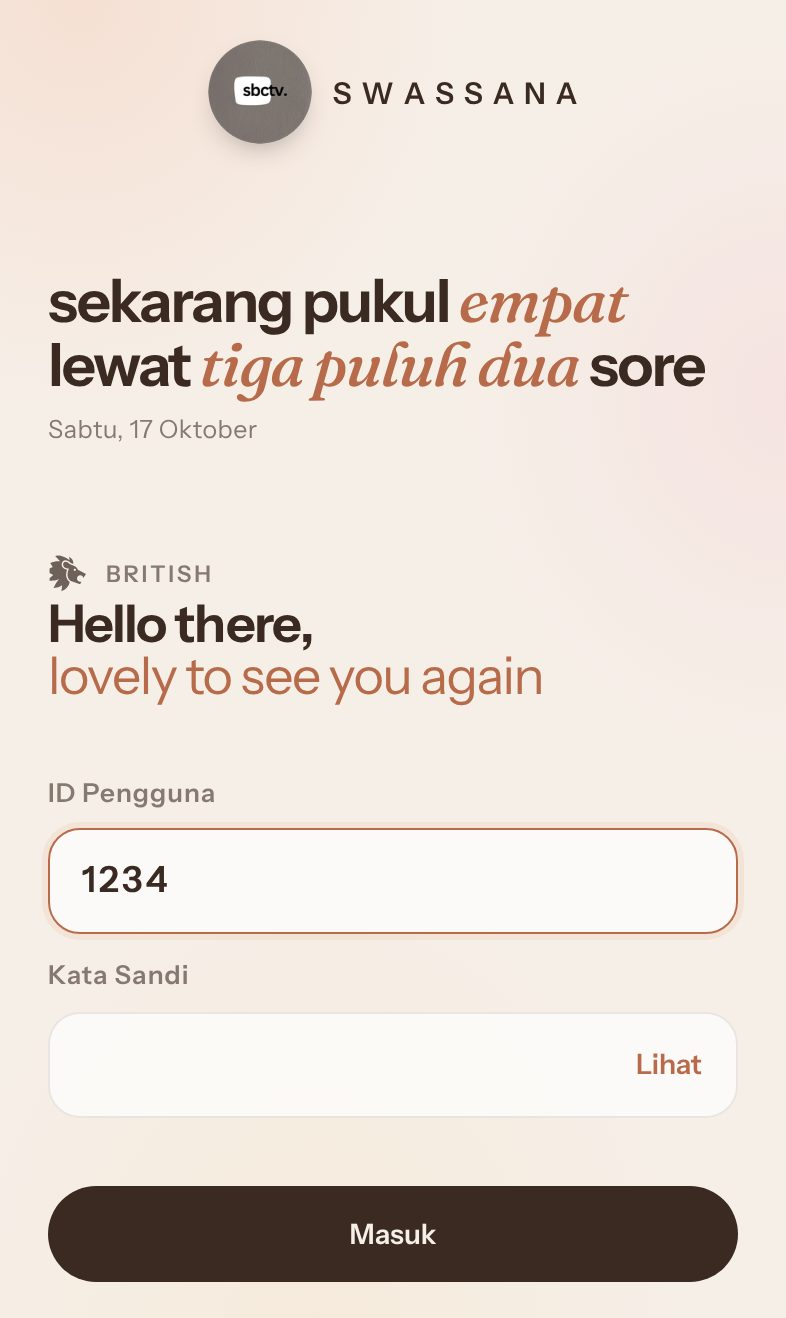
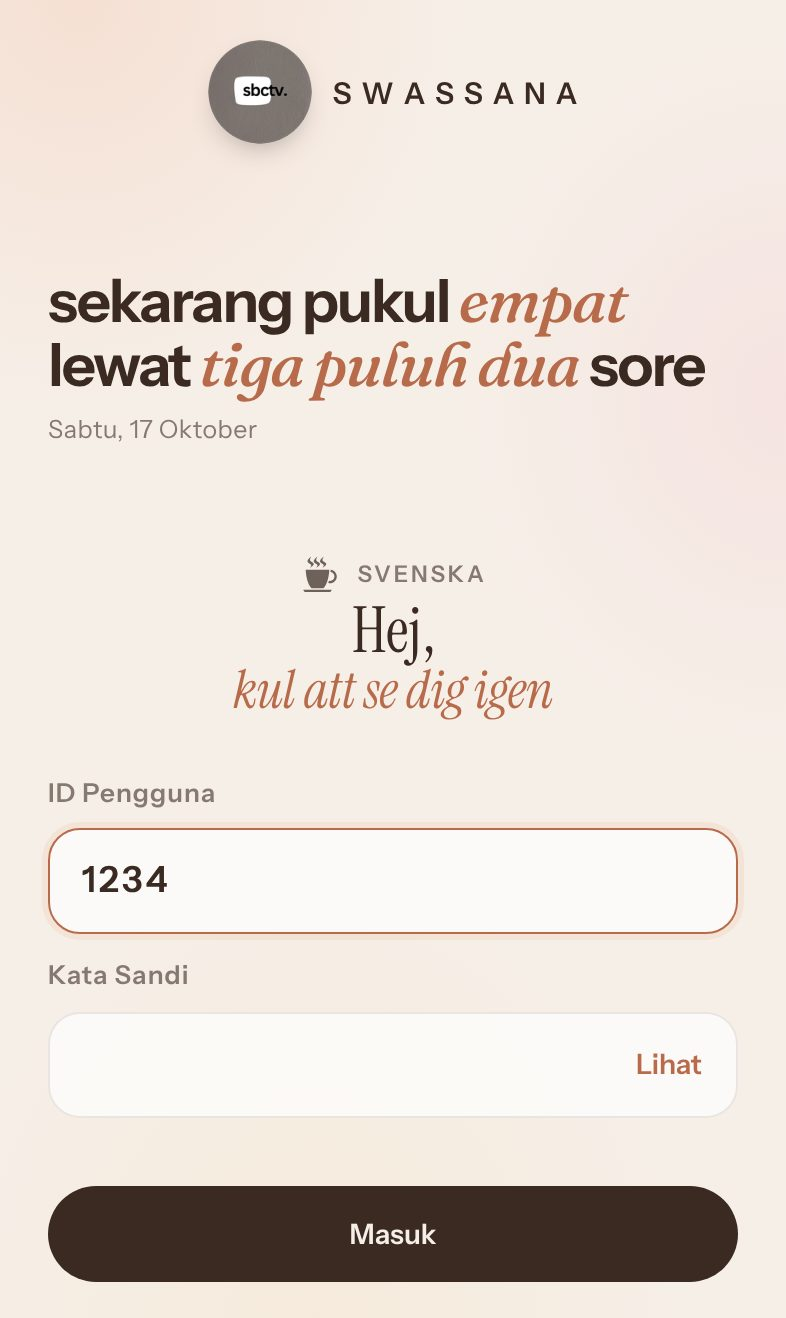
Login greeting in Instrument Serif; showcase login screenshot refreshed
Claude-Session: https://claude.ai/code/session_01NtCyvoDvjHFmUSFRxXKysP

Changed region(s): [[0.0611, 0.4044, 0.7023, 0.5599], [0.3969, 0.4044, 0.4275, 0.4666], [0.4885, 0.4044, 0.5191, 0.4355]]

diff --git a/style.css b/style.css
@@ -1055,3 +1055,15 @@ html.intro-bye body > *:not(.intro) { animation: intro-bye .75s cubic-bezier(.7,
 /* Login greeting ("quotes") centred */
 .gate .hello-tag { justify-content: center; }
 .gate h1.hello { text-align: center; }
+
+/* Login greeting in its own face: Instrument Serif (upright greeting, italic second line) */
+.gate h1.hello { font-family: "Instrument Serif", var(--display); font-weight: 400; letter-spacing: -.01em; line-height: 1.05; }
+.gate h1.hello .h1l { font-size: 1.22em; }
+.gate h1.hello .h2l { font-style: italic; font-weight: 400; font-size: 1.02em; }
+.gate h1.hello.dict .h1l { font-family: "Instrument Serif", var(--display); font-style: italic; font-weight: 400; font-size: 1.3em; letter-spacing: -.01em; }
+.gate h1.hello.dict .h2l { font-family: var(--sans); font-style: normal; font-size: .5em; }
+.gate h1.hello:lang(ja) { font-family: "Hiragino Mincho ProN", "Yu Mincho", "Noto Serif JP", serif; }
+.gate h1.hello:lang(ja) .h1l { font-size: 1em; }
+.gate h1.hello:lang(ja) .h2l { font-size: .78em; }
+.gate h1.hello.dict:lang(ja) .h1l { font-size: 1.1em; }
+.gate h1.hello.dict:lang(ja) .h2l { font-family: var(--sans); font-size: .5em; }

diff --git a/index.html b/index.html
@@ -19,7 +19,7 @@
   <meta name="apple-mobile-web-app-status-bar-style" content="default">
   <link rel="preconnect" href="https://fonts.googleapis.com">
   <link rel="preconnect" href="https://fonts.gstatic.com" crossorigin>
-  <link href="https://fonts.googleapis.com/css2?family=Fraunces:ital,opsz,wght@0,9..144,300..700;1,9..144,300..700&family=Instrument+Sans:wght@400..700&display=swap" rel="stylesheet">
+  <link href="https://fonts.googleapis.com/css2?family=Fraunces:ital,opsz,wght@0,9..144,300..700;1,9..144,300..700&family=Instrument+Sans:wght@400..700&family=Instrument+Serif:ital@0;1&display=swap" rel="stylesheet">
   <link rel="stylesheet" href="style.css">
   <script>
     try { const t = localStorage.getItem('theme'); if (t) document.documentElement.dataset.theme = t; } catch (e) {}
